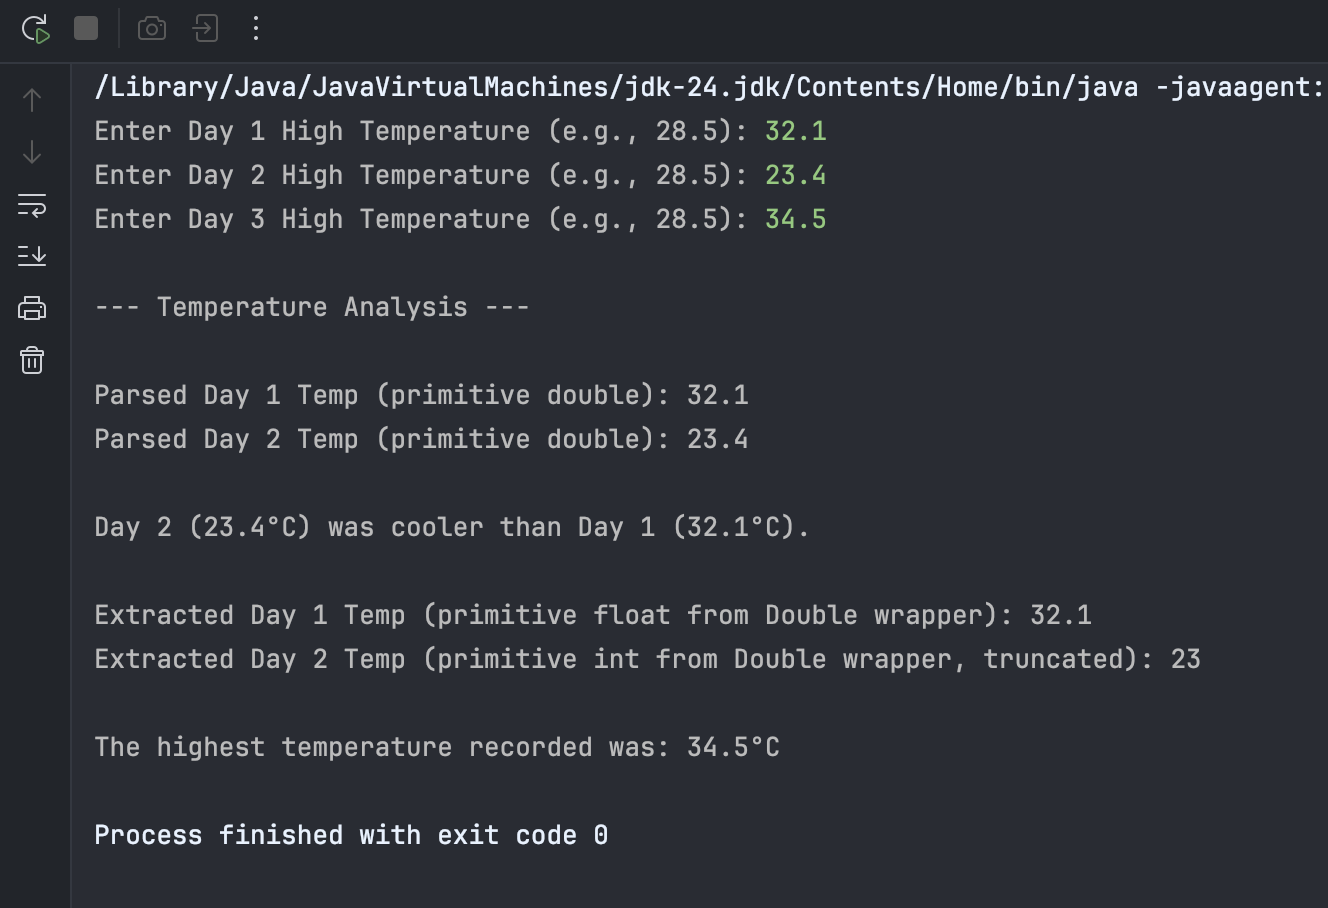
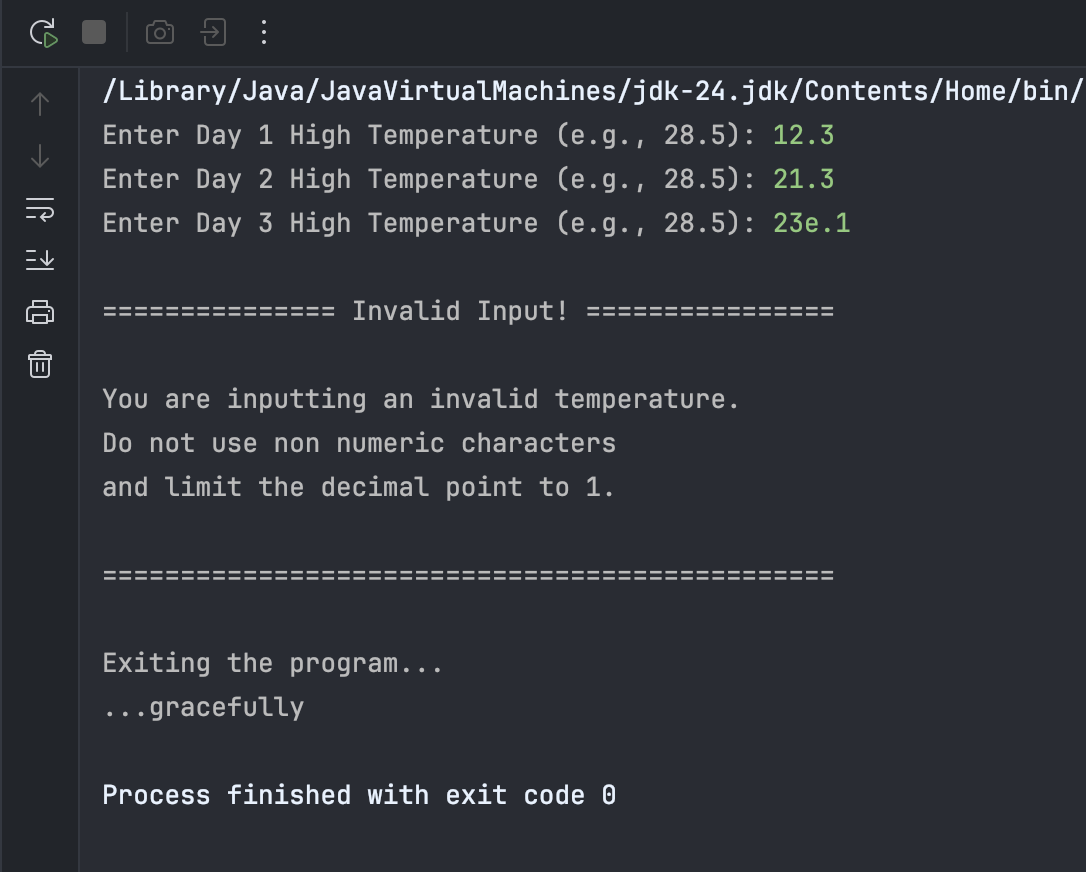
Updated screenshots and README.md

diff --git a/src/main/java/org/example/TemperatureAnalyzer.java b/src/main/java/org/example/TemperatureAnalyzer.java
@@ -1,0 +1,116 @@
+package org.example;
+
+/*
+Expected Output:
+
+Enter Day 1 High Temperature (e.g., 28.5): 25.7
+Enter Day 2 High Temperature (e.g., 28.5): 28.0
+Enter Day 3 High Temperature (e.g., 28.5): 25.7
+
+--- Temperature Analysis ---
+
+Parsed Day 1 Temp (primitive double): 25.7
+Parsed Day 2 Temp (primitive double): 28.0
+
+Day 1 (25.7°C) was cooler than Day 2 (28.0°C).
+
+Extracted Day 1 Temp (primitive float from Double wrapper): 25.7
+Extracted Day 2 Temp (primitive int from Double wrapper, truncated): 28
+
+The highest temperature recorded was: 28.0°C
+ */
+
+import java.util.Objects;
+import java.util.Scanner;
+
+public class TemperatureAnalyzer {
+    static int dayInput = 1, counterInt = 1;
+
+    static String getInputTemp(Scanner scanner){
+        System.out.print("Enter Day " + dayInput++ + " High Temperature (e.g., 28.5): ");
+        return scanner.next();
+    }
+
+    static void printParsedPrimitiveDouble(double parsedDouble){
+        System.out.println("Parsed Day " + counterInt++ + " Temp (primitive double): " + parsedDouble);
+    }
+
+    static void printHighestTemp(Double wrapper){
+        System.out.println(
+                "\nThe highest temperature recorded was: " +
+                        wrapper +
+                        "°C"
+        );
+    }
+
+    static void printCustomErrorMessage(){
+        System.out.println("\n=============== Invalid Input! ================\n");
+        System.out.println("You are inputting an invalid temperature. \nDo not use non numeric characters \nand limit the decimal point to 1.");
+        System.out.println("\n===============================================\n");
+        System.out.println("Exiting the program...");
+        System.out.println("...gracefully");
+    }
+    public static void main(String[] args){
+
+        Scanner scanner = new Scanner(System.in);
+        String day1TempStr, day2TempStr, day3TempStr;
+        double day1TempPrimitive, day2TempPrimitive, day3TempPrimitive;
+        Double day1TempWrapper, day2TempWrapper, hotterDayBetween1and2 = null, day3TempWrapper;
+        float day1TempFloat;
+        int day2TempInt;
+
+        day1TempStr =  getInputTemp(scanner);
+        day2TempStr = getInputTemp(scanner);
+        day3TempStr = getInputTemp(scanner);
+        try {
+            day1TempPrimitive = Double.parseDouble(day1TempStr);
+            day2TempPrimitive = Double.parseDouble(day2TempStr);
+            day3TempPrimitive = Double.parseDouble(day3TempStr);
+        } catch (NumberFormatException e) {
+            printCustomErrorMessage();
+            return;
+        }
+
+
+        System.out.println("\n--- Temperature Analysis ---\n");
+        printParsedPrimitiveDouble(day1TempPrimitive);
+        printParsedPrimitiveDouble(day2TempPrimitive);
+
+        day1TempWrapper = Double.valueOf(day1TempPrimitive);
+        day2TempWrapper = Double.valueOf(day2TempPrimitive);
+
+        if (day1TempWrapper.compareTo(day2TempWrapper) < 0.0) {
+            System.out.println(
+                    "\nDay 1 ("
+                            + day1TempWrapper + "°C) was cooler than Day 2 ("
+                            + day2TempWrapper + "°C).\n"
+            );
+            hotterDayBetween1and2 = day2TempWrapper;
+        }
+        else if (day1TempWrapper.compareTo(day2TempWrapper) > 0.0) {
+            System.out.println(
+                    "\nDay 2 ("
+                            + day2TempWrapper + "°C) was cooler than Day 1 ("
+                            + day1TempWrapper + "°C).\n"
+            );
+            hotterDayBetween1and2 = day1TempWrapper; // Stores the reference value of the hotter day between 1 and 2.
+        }
+        else System.out.println("\nIt is " + day1TempWrapper + "°C on both day 1 and 2.\n");
+
+        day1TempFloat = day1TempWrapper.floatValue();
+        day2TempInt = day2TempWrapper.intValue();
+
+        System.out.println("Extracted Day 1 Temp (primitive float from Double wrapper): " + day1TempFloat);
+        System.out.println("Extracted Day 2 Temp (primitive int from Double wrapper, truncated): " + day2TempInt);
+
+        day3TempWrapper = Double.valueOf(day3TempPrimitive);
+
+        if (hotterDayBetween1and2 == null){ // If day 1 and 2 has the same temperature
+            if (day3TempWrapper.compareTo(day2TempWrapper) > 0) printHighestTemp(day3TempWrapper);
+            else printHighestTemp(day2TempWrapper);
+        } else { // Compares the hotter day between 1 and 2 to the temperature of day 3
+            if (day3TempWrapper.compareTo(hotterDayBetween1and2) > 0) printHighestTemp(day3TempWrapper);
+            else printHighestTemp(hotterDayBetween1and2);
+        }
+    }
+}

diff --git a/src/main/java/org/example/Main.java b/src/main/java/org/example/Main.java
@@ -1,0 +1,17 @@
+package org.example;
+
+//TIP To <b>Run</b> code, press <shortcut actionId="Run"/> or
+// click the <icon src="AllIcons.Actions.Execute"/> icon in the gutter.
+public class Main {
+    public static void main(String[] args) {
+        //TIP Press <shortcut actionId="ShowIntentionActions"/> with your caret at the highlighted text
+        // to see how IntelliJ IDEA suggests fixing it.
+        System.out.printf("Hello and welcome!");
+
+        for (int i = 1; i <= 5; i++) {
+            //TIP Press <shortcut actionId="Debug"/> to start debugging your code. We have set one <icon src="AllIcons.Debugger.Db_set_breakpoint"/> breakpoint
+            // for you, but you can always add more by pressing <shortcut actionId="ToggleLineBreakpoint"/>.
+            System.out.println("i = " + i);
+        }
+    }
+}

diff --git a/README.md b/README.md
@@ -10,5 +10,5 @@
 #### Using different inputs from the example:
 <img src="https://github.com/rick-maniquiz/JC-WrapperClasses-TemperatureAnalyzer/blob/db3d86de36cbf37f52dab6cb9a5f27b97398edf1/screenshots/screenshot3.png"/>
 
-#### With invalid input and then same temperature across all days
+#### With invalid input.
 <img src="https://github.com/rick-maniquiz/JC-WrapperClasses-TemperatureAnalyzer/blob/db3d86de36cbf37f52dab6cb9a5f27b97398edf1/screenshots/screenshot2.png"/>
